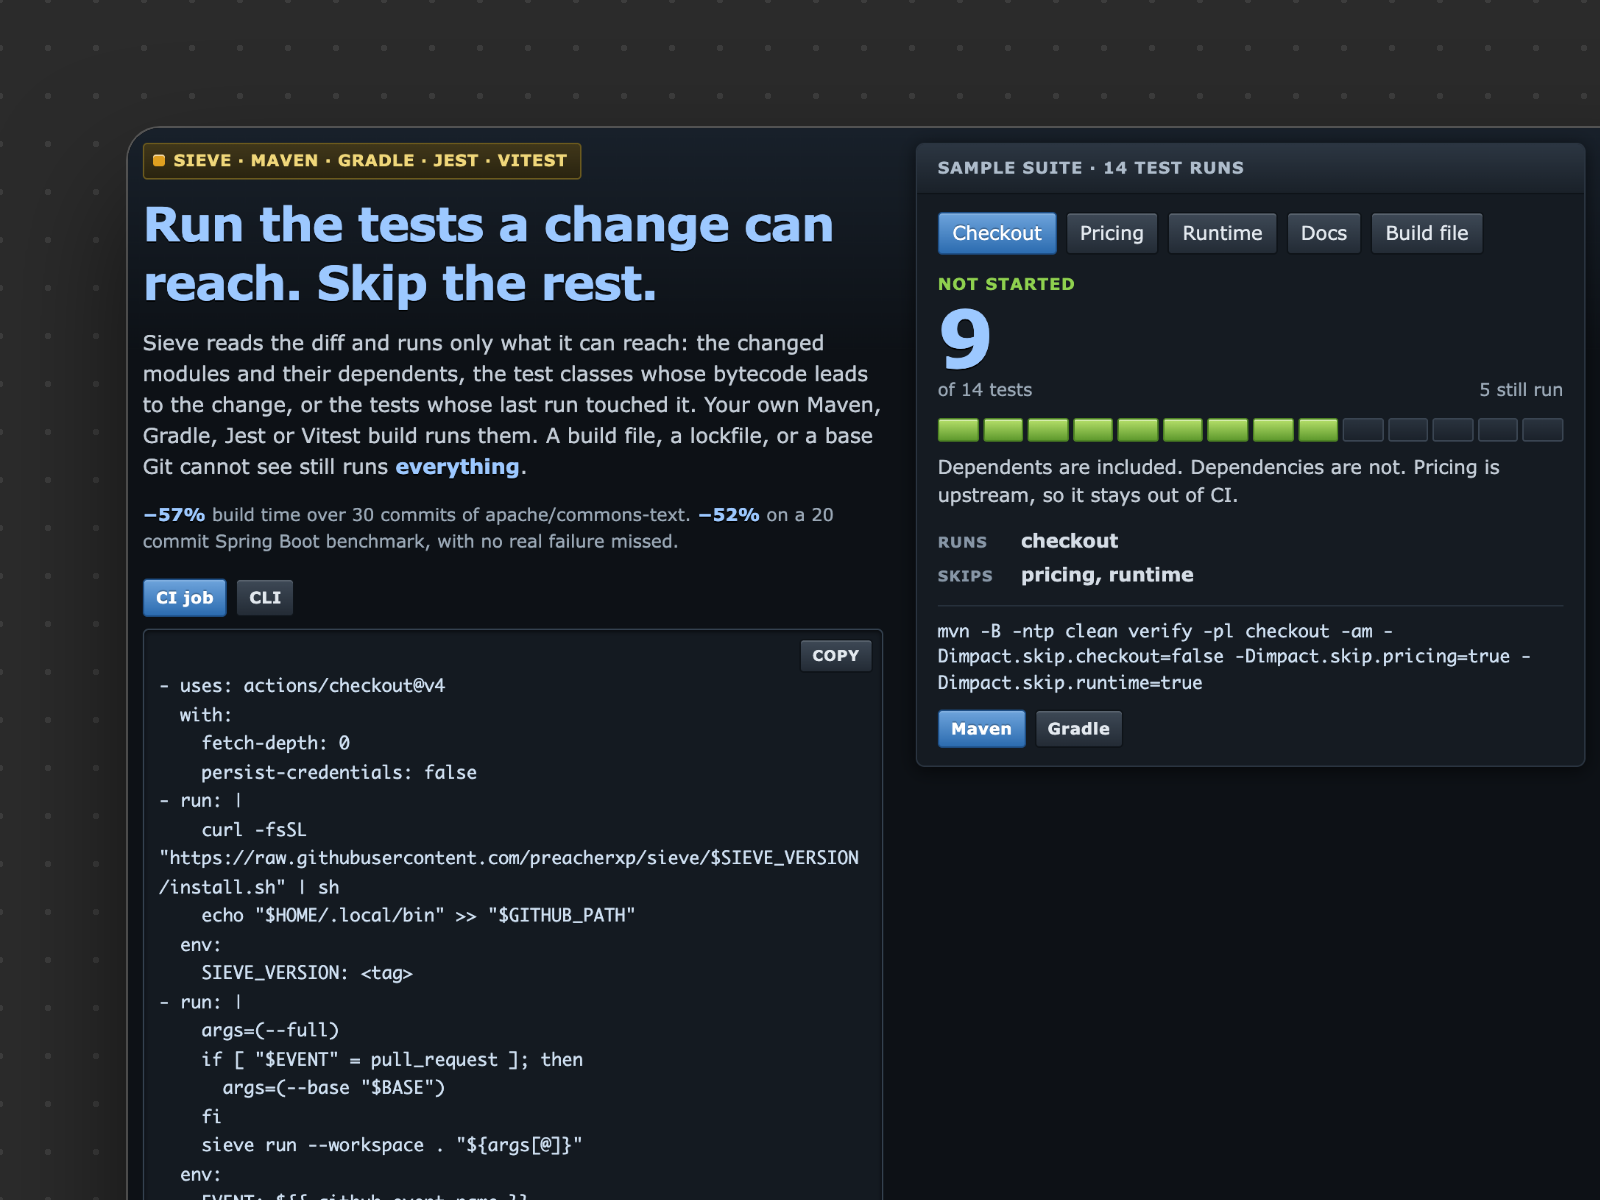
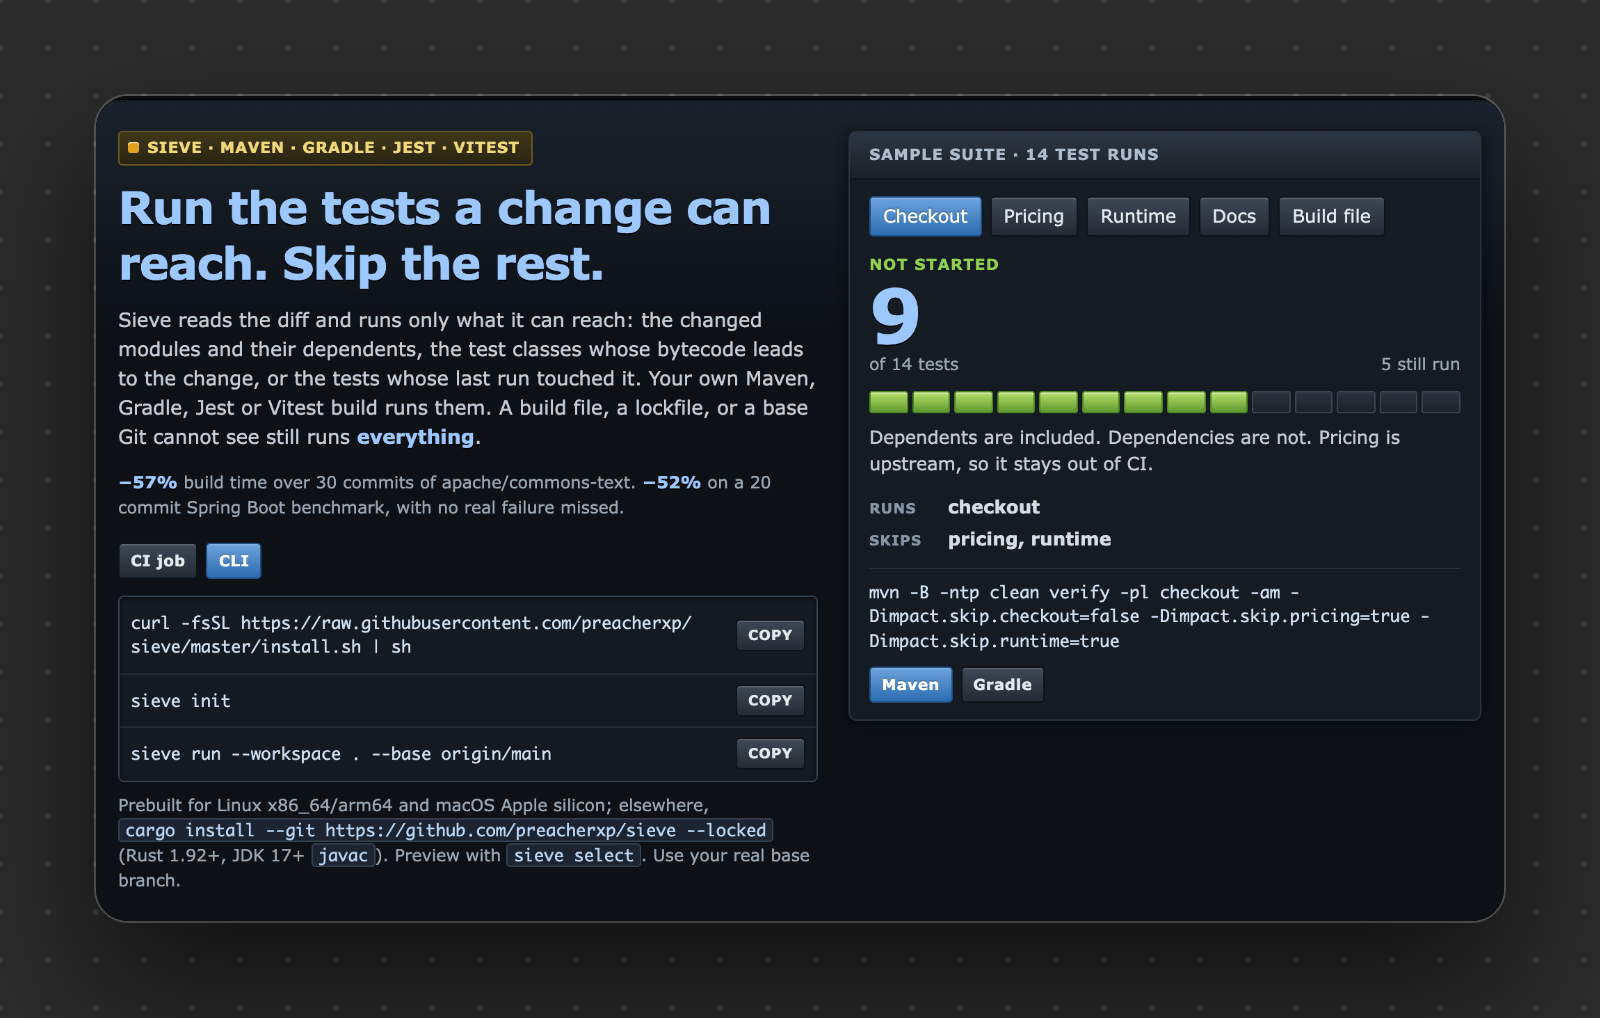
docs: hero shows the whole UI instead of running off the edge

Changed region(s): [[0.0625, 0.0914, 1.0, 1.0], [0.0938, 0.944, 0.375, 1.0]]

diff --git a/README.md b/README.md
@@ -8,7 +8,7 @@
 
 Sieve is a Rust CLI for Java and Kotlin/JVM projects built with Maven or Gradle, and for JavaScript and TypeScript projects tested with Jest or Vitest. It reads the Git diff, decides which modules, test classes or test files a change can reach, and runs them through the project's own build. Selection is conservative: build-script edits, unknown paths, or missing Git history always select the full suite.
 
-<p align="center"><img src="assets/hero.png" width="800" alt="Sieve's site: the headline Run the tests a change can reach. Skip the rest., the GitHub Actions job, and a sample suite where a change to Checkout leaves 9 of 14 tests unstarted, with the Maven command it runs"></p>
+<p align="center"><img src="assets/hero.png" width="800" alt="Sieve's site: the headline Run the tests a change can reach. Skip the rest., the three install and run commands, and a sample suite where a change to Checkout leaves 9 of 14 tests unstarted, with the Maven command it runs"></p>
 
 ## Requirements
 
